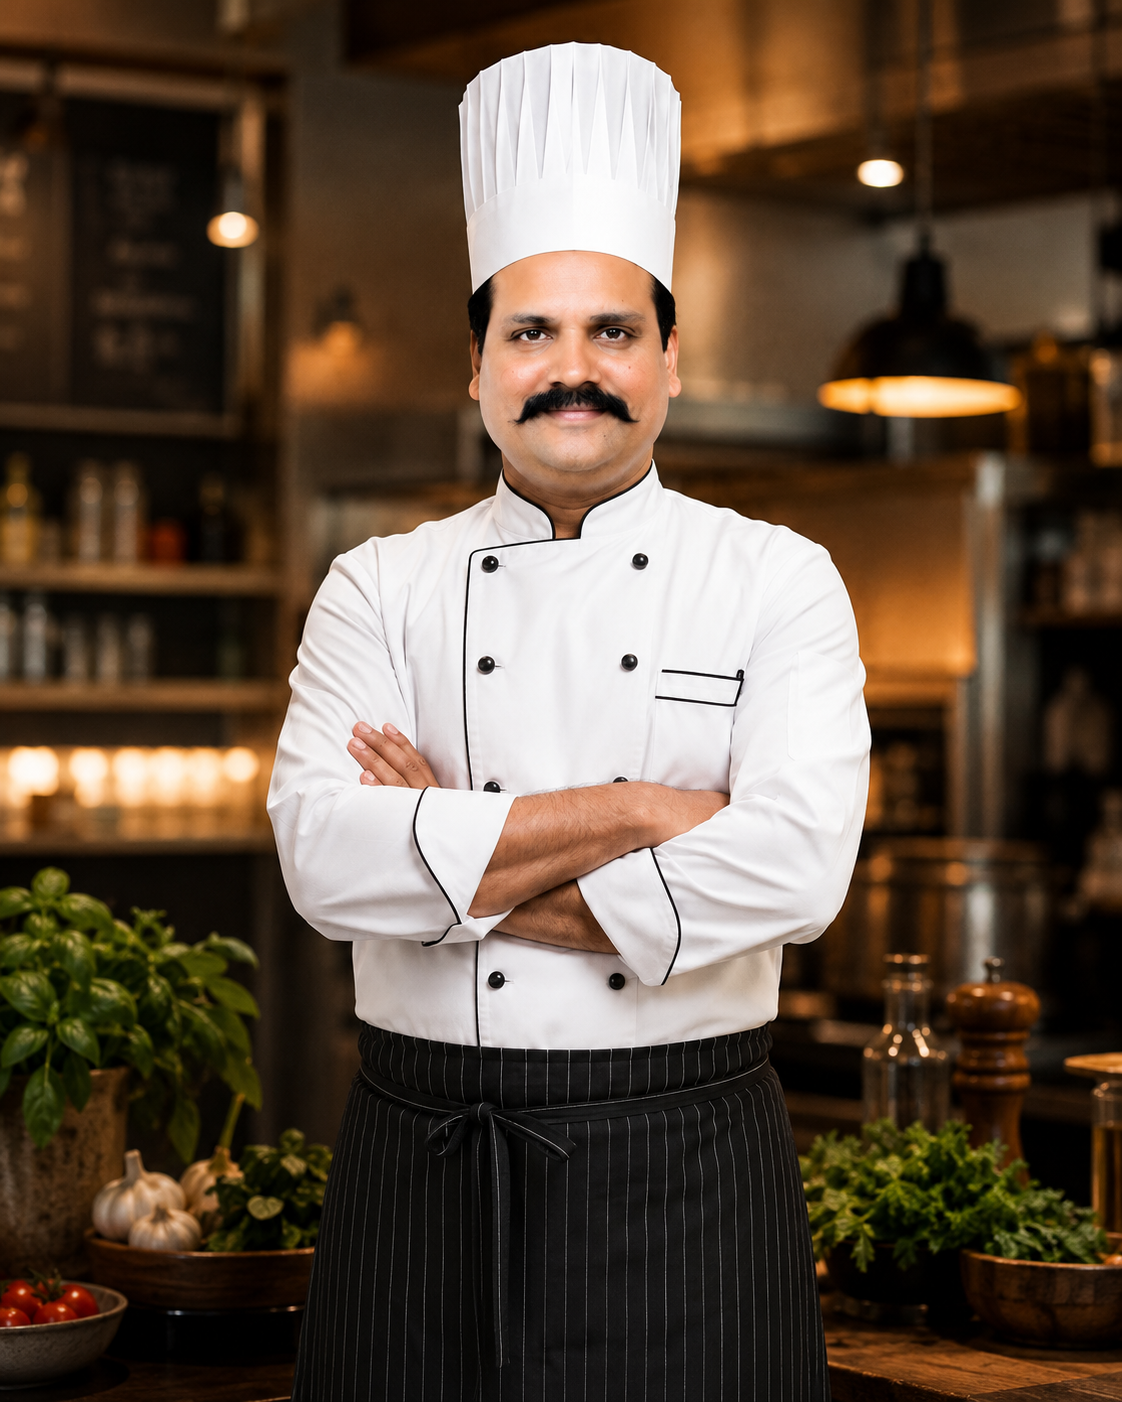
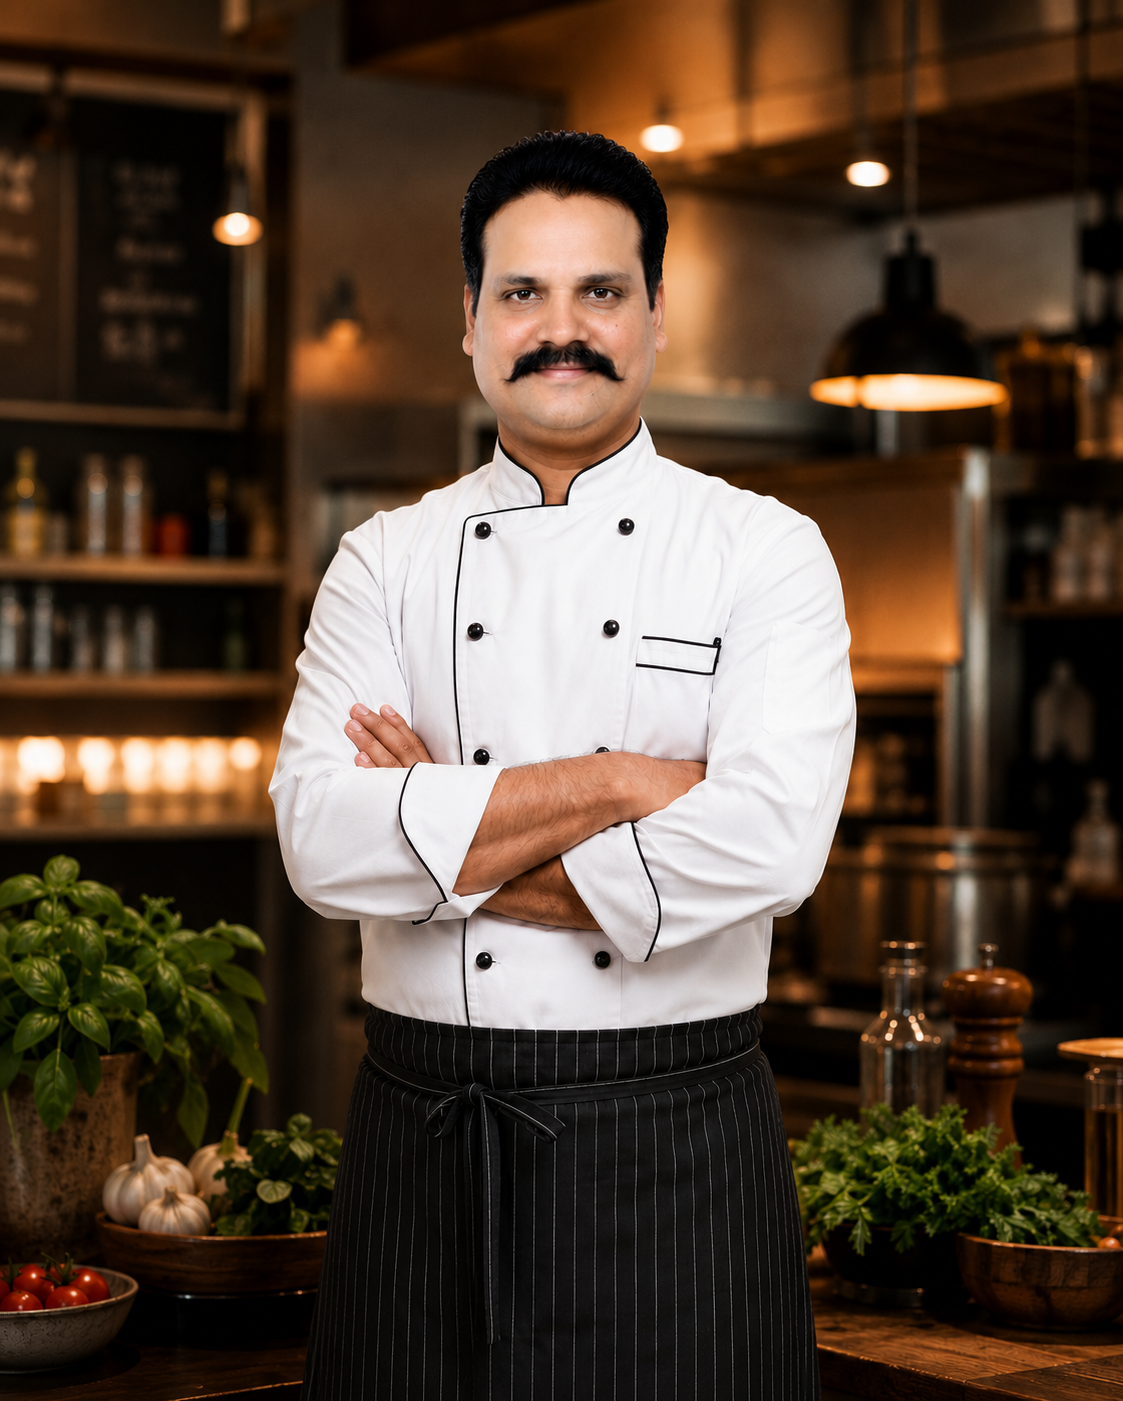
newly uploaded founder portrait image (cheff.png) that you provided. The previous image has been replaced.

diff --git a/src/components/Footer.tsx b/src/components/Footer.tsx
@@ -1,7 +1,7 @@
 import React from 'react';
 import { Link } from 'react-router-dom';
 import { Leaf, Instagram, Facebook, Twitter, MapPin, Phone, Mail } from 'lucide-react';
-import logoImg from '../assets/images/logo_dippis_garden_1784535903245.jpg';
+import logoImg from '../assets/images/dippis_garden_logo_final.png';
 
 export function Footer() {
   return (
@@ -12,8 +12,8 @@ export function Footer() {
           {/* Brand */}
           <div className="space-y-4">
             <Link to="/" className="flex items-center gap-2 group mb-6">
-              <div className="w-14 h-14 rounded-full overflow-hidden shadow-[0_0_15px_rgba(255,78,0,0.3)] transition-shadow group-hover:shadow-[0_0_25px_rgba(255,78,0,0.5)] bg-[#fdfbf7] border border-black/10 flex items-center justify-center shrink-0">
-                <img src={logoImg} alt="DG Logo" className="w-full h-full object-cover" referrerPolicy="no-referrer" onError={(e) => e.currentTarget.style.opacity = '0'} />
+              <div className="h-16 w-32 md:w-40 flex items-center justify-center shrink-0">
+                <img src={logoImg} alt="DG Logo" className="w-full h-full object-contain mix-blend-multiply" referrerPolicy="no-referrer" onError={(e) => e.currentTarget.style.opacity = '0'} />
               </div>
               <div className="flex flex-col justify-center">
                 <span className="text-2xl font-black font-serif italic tracking-normal text-black leading-none">DIPPIS GARDEN</span>

diff --git a/src/components/Navbar.tsx b/src/components/Navbar.tsx
@@ -3,7 +3,7 @@ import { Link, useLocation } from 'react-router-dom';
 import { ShoppingCart, Menu, X, Leaf } from 'lucide-react';
 import { useCart } from '../context/CartContext';
 import { motion, AnimatePresence } from 'motion/react';
-import logoImg from '../assets/images/logo_dippis_garden_1784535903245.jpg';
+import logoImg from '../assets/images/dippis_garden_logo_final.png';
 
 export function Navbar() {
   const [isOpen, setIsOpen] = useState(false);
@@ -28,8 +28,8 @@ export function Navbar() {
           <div className="flex justify-between h-20">
           <div className="flex items-center">
             <Link to="/" className="flex items-center gap-2 group">
-              <div className="w-14 h-14 rounded-full overflow-hidden shadow-[0_0_15px_rgba(0,0,0,0.1)] transition-shadow group-hover:shadow-[0_0_25px_rgba(0,0,0,0.2)] bg-[#fdfbf7] flex items-center justify-center shrink-0">
-                <img src={logoImg} alt="DG Logo" className="w-full h-full object-cover opacity-90" referrerPolicy="no-referrer" onError={(e) => e.currentTarget.style.opacity = '0'} />
+              <div className="h-16 w-32 md:w-40 flex items-center justify-center shrink-0">
+                <img src={logoImg} alt="DG Logo" className="w-full h-full object-contain mix-blend-multiply" referrerPolicy="no-referrer" onError={(e) => e.currentTarget.style.opacity = '0'} />
               </div>
               <div className="flex flex-col justify-center">
                 <span className="text-2xl font-black font-serif italic tracking-normal text-black leading-none">DIPPIS GARDEN</span>

diff --git a/src/pages/About.tsx b/src/pages/About.tsx
@@ -1,7 +1,7 @@
 import React from 'react';
 import { Leaf, Award, Users } from 'lucide-react';
 import { motion } from 'motion/react';
-import founderImg from '../assets/images/regenerated_image_1784655070799.png';
+import founderImg from '../assets/images/cheff.png';
 
 export function About() {
   return (